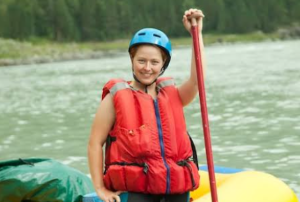
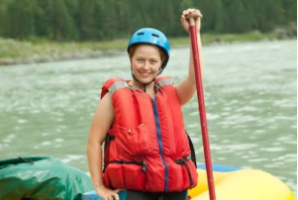
rafting site week 5

diff --git a/wwr/styles/rafting.css b/wwr/styles/rafting.css
@@ -18,7 +18,7 @@ body {
 }
 
 header, main, footer {
-    background-color: #d8efe2;
+    background-color: white;
     color: var(--accent2-color);
     max-width: 900px;
     margin: 0 auto;
@@ -31,7 +31,7 @@ header {
     grid-template-columns: 120px 1fr 1fr;
     justify-content: space-between;
     align-items: center;
-    border: 2px solid #333;
+    border: 2px solid black;
     font-family: var(--heading-font);
 }
 nav ul {
@@ -39,8 +39,8 @@ nav ul {
     justify-content: space-between;
     list-style: none;
     flex: 1 1 auto;
-    background-color: #fff;
-    border: 1px solid #333;
+    background-color: white;
+    border: 1px solid black;
     padding: 8px 16px;
     text-decoration: none;
 }
@@ -61,7 +61,7 @@ nav, p, section, article {
 
 .hero {
     position: relative;
-    border: 2px solid #333;
+    border: 2px solid black;
     padding: 20px;
     width: max-content;
     max-width: 100%;
@@ -112,7 +112,7 @@ nav, p, section, article {
 }
 
 .history {
-    border: 2px solid #333;
+    border: 2px solid black;
     padding: 10px;
     margin-bottom: 30px;
     display: grid;
@@ -144,7 +144,7 @@ nav, p, section, article {
 
 
 .figure {
-    border: 2px solid #333;
+    border: 2px solid black;
     display: flex;
     flex-direction: column;
     align-items: center;
@@ -192,7 +192,7 @@ footer {
     padding: 15px;
     justify-content: center;
     align-items: center;
-    border: 2px solid #333;
+    border: 2px solid black;
 }
 
 .footer p {
